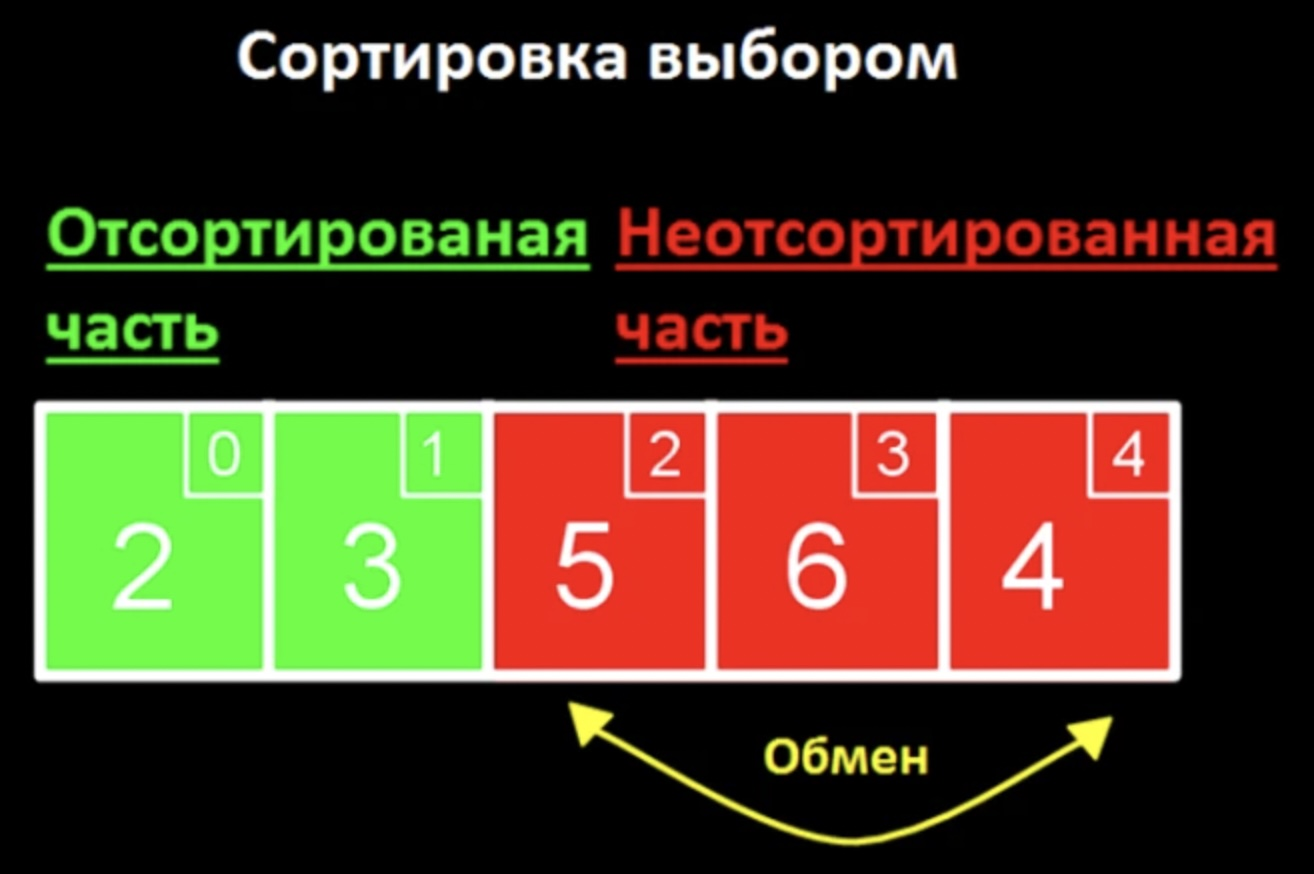
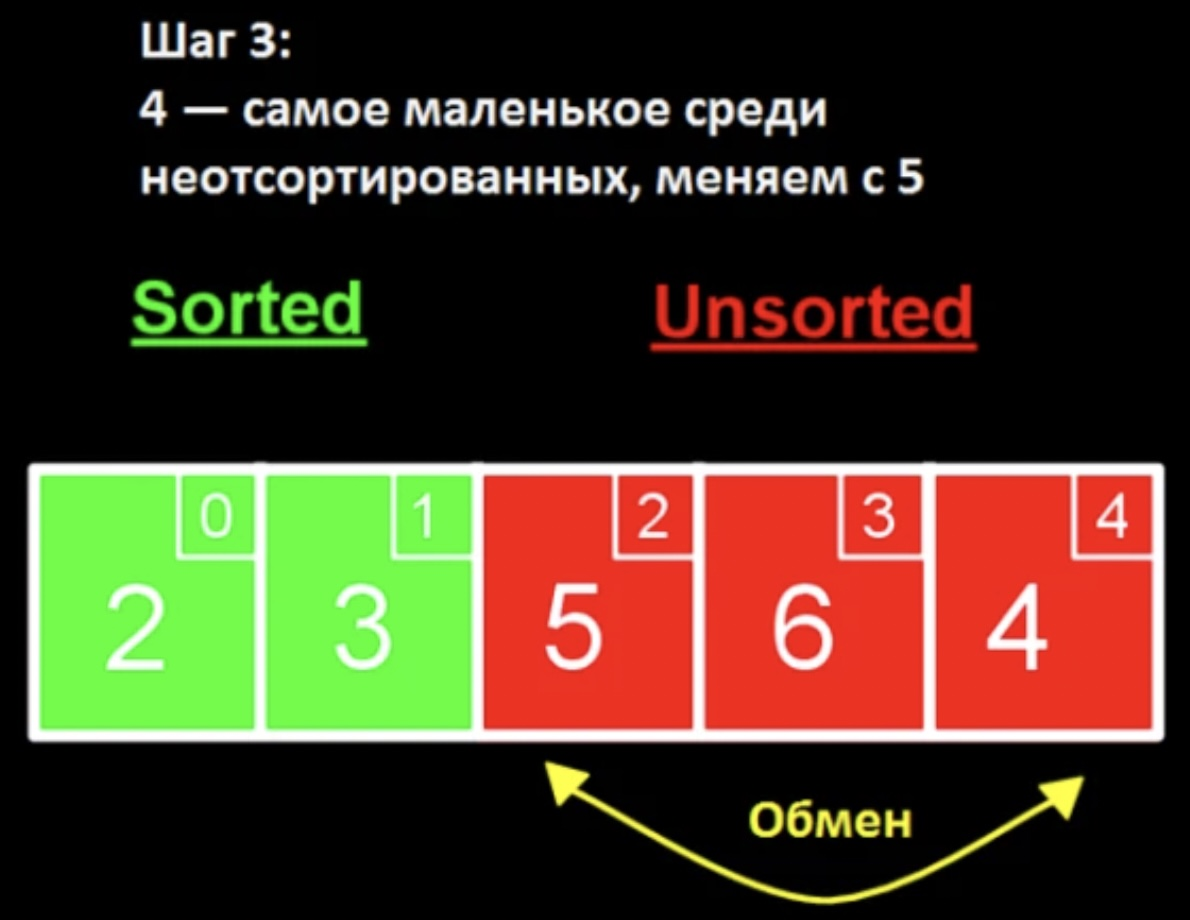
Update notes, add selection Sort, example, images

diff --git a/README.md b/README.md
@@ -762,5 +762,147 @@ unsigned getbits(unsigned x, int p, int n)
 2.Меняем местами это значение с первым неотсортированным значением, ставя его таким образом в конец отсортированного массива.
 3.Если остались неотсортированные значения, возвращаемся к шагу 1.
 
+Метод сортировки прямым выбором основан на следующих правилах:
+1.Выбирается элемент с наименьшим ключом.
+2.Он меняется местами с первым элементом a0.
+3.Затем эти операции повторяются с оставшимися n-1 элементами, n-2 элементами и так далее до тех пор, пока не останется один, самый большой элемент.
+
+<img alt="image" src="images/сортировка выбором4.png"> </img>
+
+На первом шаге все значения являются неотсортированными. Назовем неотсортированную часть — Unsorted, а отсортированную — Sorted 
+
+<img alt="image" src="images/сортировка выбором2.jpg"> </img>
+
+Шаг второй. На число 2 мы не смотрим, оно уже в отсортированном подмассиве. Начинаем искать минимальное, начиная со второго элемента, это 5. Убеждаемся, что 3 — минимальное среди неотсортированных, 5 — первое среди неотсортированных. Меняем их местами и прибавляем 3 к отсортированному подмассиву.
+
+<img alt="image" src="images/сортировка выбором3.jpg"> </img>
+
+На третьем шаге мы видим, что в неотсортированном подмассиве самое маленькое число — 4. Меняем его с первым числом среди неотсортированных — 5. 
+
 <img alt="image" src="images/сортировка выбором1.jpg"> </img>
+
+На четвертом шаге мы обнаруживаем, что в неотсортированном массиве минимальное число — 5. Меняем его с 6 и прибавляем к отсортированному подмассиву.
+
+Когда среди неотсортированных остается только одно число (наибольшее), это значит, что весь массив отсортирован! 
+
+Таким образом, ожидаемая скорость алгоритма в лучшем и худшем случае — Θ(n2) = O(n2). n в квадрате
+
+```C
+#include <stdio.h>
+#include <malloc.h>
+ 
+int main()
+{
+    int N;
+    printf("Input N: ");
+    scanf("%d", &N);
+    int* mass;
+    mass = (int *)malloc(N * sizeof(int));
+    printf("Input the array elements:\n");
+    for (int i = 0; i < N; i++)
+        scanf("%d", &mass[i]);
+        
+    //сортировка методом выбора
+    int minPosition, tmp;
+ 
+    for (int i = 0; i < N; i++)
+    {
+        minPosition = i;
+        for (int j = i + 1; j < N; j++)
+            if (mass[minPosition] > mass[j])
+                minPosition = j;
+        tmp = mass[minPosition];
+        mass[minPosition] = mass[i];
+        mass[i] = tmp;
+    }
+ 
+    printf("Sorted array:\n");
+    for (int i = 0; i < N; i++)
+        printf("%d ", mass[i]);
+    printf("\n");
+    free(mass);
+    return 0;
+}
+```
+Result:
+
+```bash
+Input N: 5
+Input the array elements:
+2
+4
+3
+5
+1
+Sorted array:
+1 2 3 4 5 
+```
+
+или другая реализация
+
+```C
+#define _CRT_SECURE_NO_WARNINGS // для корректной работы scanf()
+#include <stdio.h>
+
+// Функция сортировки прямым выбором
+void selectionSort(int *num, int size)
+{
+  int min, temp; // для поиска минимального элемента и для обмена
+  for (int i = 0; i < size - 1; i++) 
+  {
+      
+    min = i; // запоминаем индекс текущего элемента
+    
+    // ищем минимальный элемент чтобы поместить на место i-ого
+    for (int j = i + 1; j < size; j++)  // для остальных элементов после i-ого
+    {
+      if (num[j] < num[min]) // если элемент меньше минимального,
+        min = j;       // запоминаем его индекс в min
+    }
+    
+    // меняем местами i-ый и минимальный элементы
+    temp = num[i];      
+    num[i] = num[min];
+    num[min] = temp;
+  }
+}
+
+int main() 
+{
+  int a[10]; // Объявляем массив из 10 элементов
+  // Вводим значения элементов массива
+  for (int i = 0; i < 10; i++) 
+  {
+    printf("a[%d] = ", i);
+    scanf("%d", &a[i]);
+  }
+  
+  selectionSort(a, 10);  // вызываем функцию сортировки
+  // Выводим отсортированные элементы массива
+  for (int i = 0; i<10; i++)
+    printf("%d ", a[i]);
+  getchar(); getchar();
+  return 0;
+}
+```
+
+Result:
+```bash
+a[0] = 2
+a[1] = 4
+a[2] = 6
+a[3] = 8
+a[4] = 9
+a[5] = 3
+a[6] = 4
+a[7] = 1
+a[8] = 7
+a[9] = 3
+1 2 3 3 4 4 6 7 8 9
+```
+
+---
+### Пузырьковая сортировка
+
+
 
